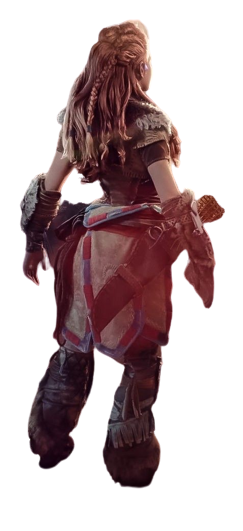
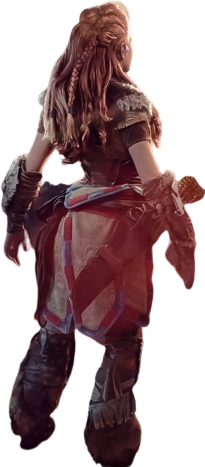
Algumas mudanças

diff --git a/style.css b/style.css
@@ -131,7 +131,7 @@ footer {
 
 @media (max-width: 630px) {
     * {
-        font-size: 95%;
+        font-size: 92%;
     }
 
     header {
@@ -139,7 +139,7 @@ footer {
         justify-content: center;
         flex-direction: column;
         text-align: center;
-        gap: 30px;
+        gap: 20px;
     }
 
     nav {
@@ -150,10 +150,6 @@ footer {
         display: block;
         font-size: 1.4em;
         z-index: 2;
-    }
-
-    .fa-bars:hover {
-        color: #000;
     }
 }
 
@@ -186,5 +182,16 @@ footer {
 @media (max-width: 1125px) {
     footer {
         text-align: left;
+    }
+}
+
+@media (max-height: 450px) {
+    body {
+        height: 150vh;
+        overflow: visible;
+    }
+
+    .aloy {
+        bottom: -50%;
     }
 }

diff --git a/index.html b/index.html
@@ -30,7 +30,7 @@
     </main>
 
     <img class="aloy" src="images/Aloy.png" alt="Aloy">
-   <footer>Todos os direitos reservados a Playstation</footer>
+    <footer>Todos os direitos reservados a Playstation</footer>
 
    <script src="script.js"></script>
 </body>
